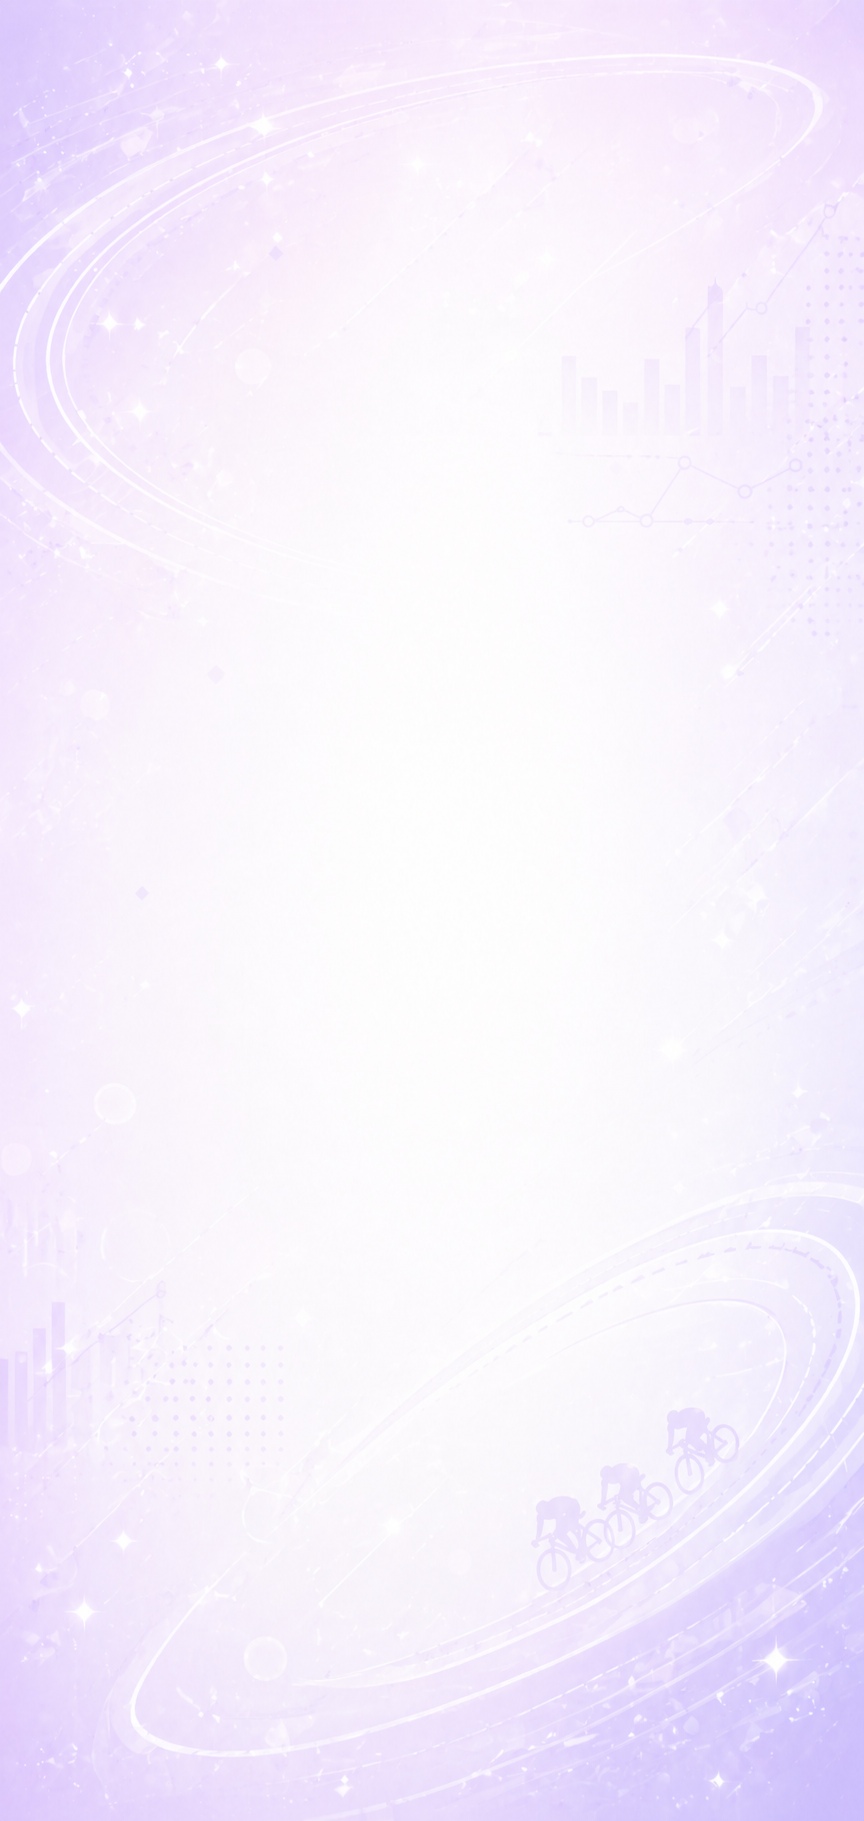
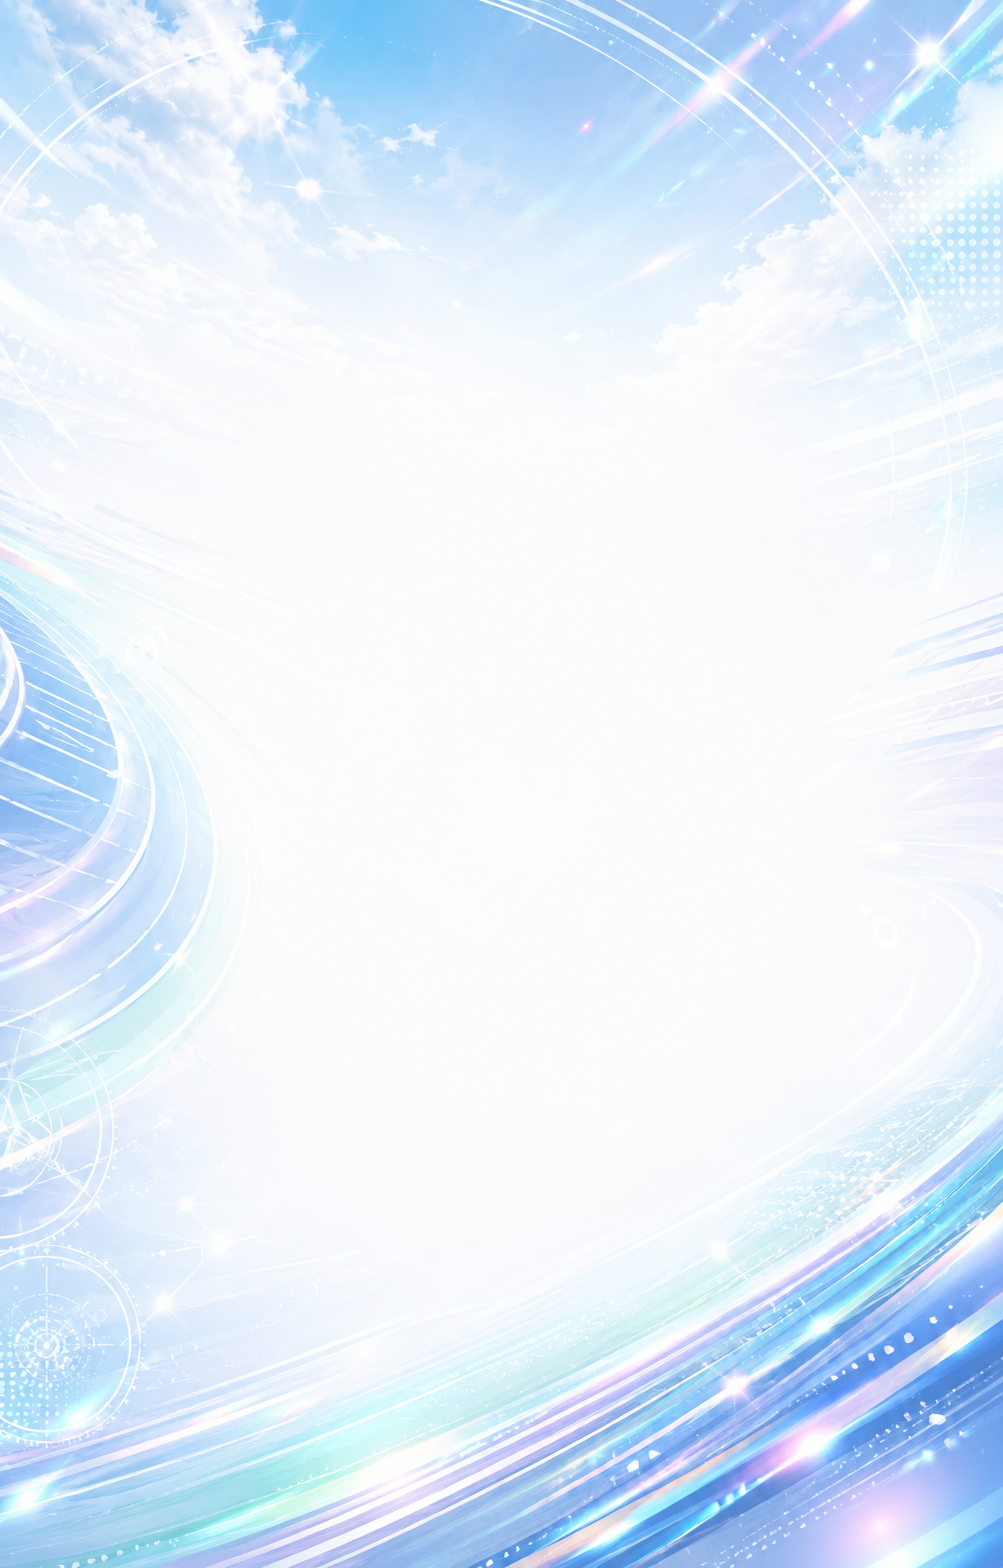
Add page background images

diff --git a/src/pages/PageImplementations.tsx b/src/pages/PageImplementations.tsx
@@ -5863,11 +5863,52 @@ export function DashboardPage() {
     }
   };
 
-  return (
-    <div style={{ minHeight: "100vh", background: "linear-gradient(180deg, #fffefe 0%, #fff6fb 48%, #f6fbff 100%)", color: "#111827" }}>
+    return (
+    <div
+      style={{
+        minHeight: "100vh",
+        background: "linear-gradient(180deg, #f8fcff 0%, #fff8fd 48%, #f6fbff 100%)",
+        color: "#111827",
+        position: "relative",
+        isolation: "isolate",
+        overflowX: "hidden",
+      }}
+    >
+      <div
+        aria-hidden="true"
+        style={{
+          position: "fixed",
+          inset: 0,
+          zIndex: 0,
+          pointerEvents: "none",
+          overflow: "hidden",
+        }}
+      >
+        <div
+          style={{
+            position: "absolute",
+            inset: 0,
+            backgroundImage: `url("${toPublicPath("/dashboard-page/dashboard-bottom-bg-keirin-soft-light.png")}")`,
+            backgroundRepeat: "no-repeat",
+            backgroundSize: "cover",
+            backgroundPosition: isMobile ? "center top" : "center top",
+            opacity: 0.9,
+            transform: "scale(1.02)",
+          }}
+        />
+        <div
+          style={{
+            position: "absolute",
+            inset: 0,
+            background:
+              "linear-gradient(180deg, rgba(255,255,255,0.52) 0%, rgba(255,255,255,0.38) 42%, rgba(255,255,255,0.58) 100%)",
+          }}
+        />
+      </div>
+
       <SiteHeader activeKey="dashboard" />
 
-      <main style={{ scrollBehavior: "smooth" }}>
+      <main style={{ scrollBehavior: "smooth", position: "relative", zIndex: 1 }}>
         <section
   style={{
     maxWidth: PAGE_MAX_WIDTH,
@@ -8486,11 +8527,70 @@ function SubPageShell({
                 ? "analysis"
                 : "dashboard";
 
-  return (
-    <div style={{ minHeight: "100vh", background: "linear-gradient(180deg, #fffefe 0%, #fff6fb 48%, #f6fbff 100%)", color: "#111827" }}>
-      <SiteHeader activeKey={subPageActiveKey} />
+    const isRacesSubPage = subPageActiveKey === "races";
 
-      <main style={{ maxWidth: PAGE_MAX_WIDTH, margin: "0 auto", padding: "56px 24px 120px", display: "grid", gap: "28px" }}>
+  return (
+  <div
+    style={{
+      minHeight: "100vh",
+      background: isRacesSubPage
+        ? "linear-gradient(180deg, #fffefe 0%, #f7fbff 42%, #fff8ff 100%)"
+        : "linear-gradient(180deg, #fffefe 0%, #fff6fb 48%, #f6fbff 100%)",
+      color: "#111827",
+      overflowX: "hidden",
+      position: "relative",
+      isolation: "isolate",
+    }}
+  >
+    <SiteHeader activeKey={subPageActiveKey} />
+
+    {isRacesSubPage && (
+      <div
+        aria-hidden="true"
+        style={{
+          position: "fixed",
+          left: 0,
+          right: 0,
+          top: "72px",
+          bottom: 0,
+          zIndex: 0,
+          pointerEvents: "none",
+          overflow: "hidden",
+        }}
+      >
+        <div
+          style={{
+            position: "absolute",
+            inset: 0,
+            backgroundImage: `url("${toPublicPath("/races-page/races-page-bg-keirin-soft-light.png")}")`,
+            backgroundRepeat: "no-repeat",
+            backgroundSize:"cover",
+            backgroundPosition: "center top",
+            opacity: 0.95,
+          }}
+        />
+        <div
+          style={{
+            position: "absolute",
+            inset: 0,
+            background:
+  "linear-gradient(180deg, rgba(255,255,255,0.00) 0%, rgba(255,255,255,0.03) 42%, rgba(255,255,255,0.08) 100%)",
+          }}
+        />
+      </div>
+    )}
+
+      <main
+  style={{
+    maxWidth: PAGE_MAX_WIDTH,
+    margin: "0 auto",
+    padding: "56px 24px 120px",
+    display: "grid",
+    gap: "28px",
+    position: "relative",
+    zIndex: 1,
+  }}
+>
         <section style={{ borderRadius: "40px", border: "1px solid #ebe3f3", background: "linear-gradient(135deg, rgba(244,239,252,0.96) 0%, rgba(250,248,253,1) 52%, rgba(255,255,255,1) 100%)", boxShadow: "0 24px 54px rgba(15, 23, 42, 0.07)", padding: "34px", position: "relative", ...heroCardStyle }}>
           {heroAccessory && (
             <div style={{ position: "absolute", top: "26px", right: "30px" }}>
@@ -10043,24 +10143,24 @@ const record = normalizePredictionResultRecord({
           overflow: "hidden",
         }}
       >
-        <div
-          style={{
-            position: "absolute",
-            inset: 0,
-            backgroundImage: `url("${toPublicPath("/prediction-page/prediction-page-editorial-bg-soft-lavender.png")}")`,
-            backgroundRepeat: "no-repeat",
-            backgroundSize: "cover",
-            backgroundPosition: isPredictionCompactLayout ? "center top" : "center top",
-            opacity: 0.36,
-          }}
-        />
-        <div
-          style={{
-            position: "absolute",
-            inset: 0,
-            background: "linear-gradient(180deg, rgba(255,255,255,0.42) 0%, rgba(255,255,255,0.40) 34%, rgba(255,255,255,0.50) 100%)",
-          }}
-        />
+<div
+  style={{
+    position: "absolute",
+    inset: 0,
+    backgroundImage: `url("${toPublicPath("/prediction-page/prediction-page-editorial-bg-soft-lavender.png")}")`,
+    backgroundRepeat: "no-repeat",
+    backgroundSize: isPredictionCompactLayout ? "50% auto" : "100% auto",
+    backgroundPosition: isPredictionCompactLayout ? "center top" : "center top",
+    opacity: 0.66,
+  }}
+/>
+<div
+  style={{
+    position: "absolute",
+    inset: 0,
+    background: "linear-gradient(180deg, rgba(255,255,255,0.12) 0%, rgba(255,255,255,0.08) 38%, rgba(255,255,255,0.18) 100%)",
+  }}
+/>
       </div>
  
       <div

diff --git a/src/pages/ReviewPage.tsx b/src/pages/ReviewPage.tsx
@@ -254,6 +254,7 @@ const toPublicPath = (path: string) => {
 const PREDICTION_TODAY_DATA_URL = toPublicPath("/data/races/today.generated.json");
 const REVIEW_FILE_INDEX_URL = toPublicPath("/data/reviews/index.json");
 const REVIEW_CALENDAR_WEEKDAY_LABELS = ["月", "火", "水", "木", "金", "土", "日"];
+const REVIEW_PAGE_BACKGROUND_URL = toPublicPath("/review-page/backgrounds/review-page-bg-sky-water.png");
 
 
 const sessionLabelMap: Record<string, string> = {
@@ -2250,7 +2251,21 @@ const handleReportTextFileUpload = async (event: ChangeEvent<HTMLInputElement>) 
   };
 
   return (
-    <div style={{ minHeight: "100vh", background: "linear-gradient(180deg, #fffefe 0%, #fff6fb 46%, #f6fbff 100%)", color: "#111827" }}>
+    <div
+      style={{
+        minHeight: "100vh",
+        color: "#111827",
+        backgroundColor: "#f6fbff",
+        backgroundImage: `
+          linear-gradient(180deg, rgba(255,255,255,0.18) 0%, rgba(255,246,251,0.30) 44%, rgba(246,251,255,0.54) 100%),
+          url("${REVIEW_PAGE_BACKGROUND_URL}")
+        `,
+        backgroundSize: "cover",
+        backgroundPosition: "center top",
+        backgroundRepeat: "no-repeat",
+        backgroundAttachment: "fixed",
+      }}
+    >
 <SiteHeader activeKey="review" />
 
 
